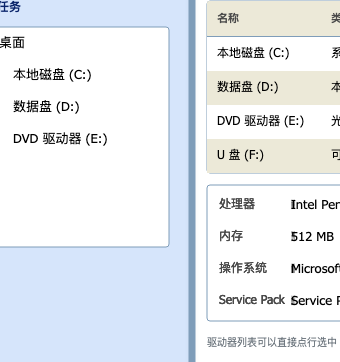
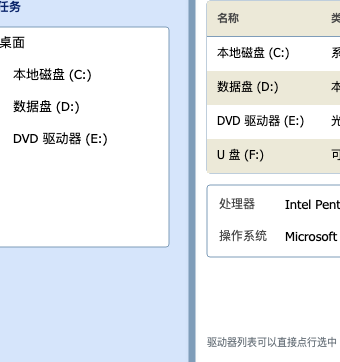
fix: 描述列表/时间线重排时不再叠加 + 长值自动省略号
用户反馈的「文字重影/重复」在描述列表里还有一层原因：__render() 只 addChild、
从不清理旧子节点 —— 每次重排（setItems、宽度变化触发的 __afterStateMerge）都会把
新内容叠在旧内容上（XP「我的电脑 · 系统信息」两列布局糊成一团的元凶）。

- ICEDescriptions / ICETimeline：__render() 开头 removeChildren 清空
- ICEDescriptions：标签/值超宽时按 estimateTextWidth 截断加省略号（原先长值直接压到相邻列）
- 测试：新增 tests/ICERenderCleanup.test.ts（重复 setItems / 改宽度重排不叠加）+
  tests/ICEDescriptions.overflow.test.ts（值/标签超宽省略、放得下不省略、宽度变化重新省略）
- XP 示例：系统信息恢复两列（XP 风格），长值自动省略
- 另外确认：「程序化移动窗口后画图内容错位」无法复现（应是之前 splitter/描述列表
  bug 的连带现象），本轮补测窗口移动 + 缩放后的内容几何均正确

验证：单测 516 → 523；verify（tsc + build + docs）通过；四套 QA 全绿
（qa:xp 20 / admin 44 / gallery 32 / workbench 15）；重出 XP 截图

diff --git a/src/components/ICEDescriptions.ts b/src/components/ICEDescriptions.ts
@@ -1,6 +1,7 @@
 import { ICELabel } from './ICELabel';
 import { ICEWidget } from '../core/ICEWidget';
 import { iceUIManager } from '../core/ICEManager';
+import { truncateTextLines } from './ICETypography';
 
 /**
  * 描述列表（业界组件库 Descriptions）：成对的「标签 / 值」，支持单列与多列。
@@ -82,6 +83,8 @@ export class ICEDescriptions extends ICEWidget {
 
   private __render(): void {
     const theme = iceUIManager.getTheme();
+    // 重排前先清空：不然每次重排都会把新格子叠在旧格子上（表现为文字重影/重复）
+    this.removeChildren([...this.childNodes]);
     const width = Number(this.state.width) || 320;
     const columnWidth = width / this.column;
     this.rowNodes = [];
@@ -90,14 +93,30 @@ export class ICEDescriptions extends ICEWidget {
       const line = Math.floor(index / this.column);
       const left = row * columnWidth + 12;
       const top = 4 + line * this.itemHeight;
+      const cellWidth = columnWidth - 24;
+      const labelWidth = Math.max(0, this.labelWidth - 6);
+      // 值列再留 4px，避免文字紧贴下一列的标签
+      const valueWidth = Math.max(0, cellWidth - this.labelWidth - 4);
       const cell = new ICEWidget({
         left,
         top,
-        width: columnWidth - 24,
+        width: cellWidth,
         height: this.itemHeight,
         fill: false,
         stroke: false,
       });
+      // 超宽就截断加省略号：画布文本不会自动裁剪，长值会直接压到相邻列上
+      // （CPU 型号、操作系统版本这类值在窄列里很常见）
+      const labelText = truncateTextLines(item.label, {
+        maxWidth: labelWidth,
+        fontSize: 12,
+        maxLines: 1,
+      })[0];
+      const valueText = truncateTextLines(String(item.value ?? ''), {
+        maxWidth: valueWidth,
+        fontSize: 13,
+        maxLines: 1,
+      })[0];
       cell.addChild(
         new ICELabel({
           interactive: false,
@@ -106,7 +125,7 @@ export class ICEDescriptions extends ICEWidget {
           width: this.labelWidth,
           height: this.itemHeight,
           verticalAlign: 'middle',
-          text: item.label,
+          text: labelText,
           style: { fontSize: 12, fillStyle: theme.colors.textSecondary },
         }),
         false,
@@ -116,10 +135,10 @@ export class ICEDescriptions extends ICEWidget {
           interactive: false,
           left: this.labelWidth,
           top: 0,
-          width: Math.max(0, columnWidth - 24 - this.labelWidth),
+          width: valueWidth,
           height: this.itemHeight,
           verticalAlign: 'middle',
-          text: item.value,
+          text: valueText,
           style: { fontSize: 13, fillStyle: theme.colors.text },
         }),
         false,

diff --git a/tests/ICERenderCleanup.test.ts b/tests/ICERenderCleanup.test.ts
@@ -1,0 +1,63 @@
+/**
+ * 「重排前先清空」回归。
+ *
+ * 背景：`ICEDescriptions.__render()` / `ICETimeline.__render()` 原来只 `addChild` 不清理，
+ * 于是每次重排（setItems、宽度变化触发的 __afterStateMerge）都会把新内容**叠在旧内容上** ——
+ * 表现为文字重影/重复（XP 桌面「我的电脑 · 系统信息」两列布局糊成一团就是这么来的）。
+ */
+import { ICEDescriptions } from '../src/components/ICEDescriptions';
+import { ICETimeline } from '../src/components/ICETimeline';
+
+describe('重排前先清空', () => {
+  it('ICEDescriptions：重复 setItems 不会叠加格子', () => {
+    const list = new ICEDescriptions({
+      width: 300,
+      column: 2,
+      items: [
+        { label: 'A', value: '1' },
+        { label: 'B', value: '2' },
+      ],
+    });
+    expect(list.getRowNodes()).toHaveLength(2);
+    expect(list.childNodes).toHaveLength(2);
+    list.setItems([
+      { label: 'A', value: '1' },
+      { label: 'B', value: '2' },
+    ]);
+    expect(list.getRowNodes()).toHaveLength(2);
+    expect(list.childNodes).toHaveLength(2);
+  });
+
+  it('ICEDescriptions：改宽度重排后子节点数量不变（不会留下旧几何）', () => {
+    const list = new ICEDescriptions({
+      width: 600,
+      column: 2,
+      items: [
+        { label: 'A', value: '1' },
+        { label: 'B', value: '2' },
+        { label: 'C', value: '3' },
+      ],
+    });
+    const before = list.childNodes.length;
+    list.setState({ width: 300 });
+    expect(list.childNodes).toHaveLength(before);
+    // 第二列 = 列宽 + 12（左侧内边距）
+    expect(list.getRowNodes()[1].state.left).toBe(Math.round(300 / 2) + 12);
+  });
+
+  it('ICETimeline：重复 setItems 不会叠加行', () => {
+    const timeline = new ICETimeline({
+      width: 300,
+      items: [
+        { title: 'a', time: '1' },
+        { title: 'b', time: '2' },
+      ],
+    });
+    const before = timeline.childNodes.length;
+    timeline.setItems([
+      { title: 'a', time: '1' },
+      { title: 'b', time: '2' },
+    ]);
+    expect(timeline.childNodes).toHaveLength(before);
+  });
+});

diff --git a/tests/ICEDescriptions.overflow.test.ts b/tests/ICEDescriptions.overflow.test.ts
@@ -1,0 +1,50 @@
+/**
+ * 描述列表的长值处理（回归）。
+ *
+ * 背景：画布文本不会自动裁剪 —— 多列布局里「Intel Pentium 4 2.4GHz」这类长值会直接
+ * 压到相邻列的标签上（XP 桌面的「我的电脑 · 系统信息」就是这么糊掉的）。
+ * 现在标签/值超宽都会截断并补省略号。
+ */
+import { ICEDescriptions } from '../src/components/ICEDescriptions';
+import { estimateTextWidth } from '../src/util/ICEStyle';
+
+const items = [
+  { label: '处理器', value: 'Intel Pentium 4 2.4GHz' },
+  { label: '内存', value: '512 MB' },
+];
+
+describe('ICEDescriptions 长值省略', () => {
+  it('值超宽：截断 + 省略号，宽度不超过值列', () => {
+    const list = new ICEDescriptions({ width: 300, column: 2, labelWidth: 60, items });
+    const row = list.getRowNodes()[0];
+    const valueLabel = row.childNodes[1] as any;
+    const text = valueLabel.getText();
+    expect(text.endsWith('…')).toBe(true);
+    expect(estimateTextWidth(text, 13)).toBeLessThanOrEqual(Number(valueLabel.state.width) + 1);
+  });
+
+  it('放得下就原样显示，不加省略号', () => {
+    const list = new ICEDescriptions({ width: 700, column: 1, labelWidth: 60, items });
+    const row = list.getRowNodes()[0];
+    expect((row.childNodes[1] as any).getText()).toBe('Intel Pentium 4 2.4GHz');
+  });
+
+  it('标签超宽也省略', () => {
+    const list = new ICEDescriptions({
+      width: 300,
+      column: 2,
+      labelWidth: 60,
+      items: [{ label: '超级超级超级超级长的标签名', value: 'x' }],
+    });
+    const row = list.getRowNodes()[0];
+    expect((row.childNodes[0] as any).getText().endsWith('…')).toBe(true);
+  });
+
+  it('宽度变化后重新省略（配合 __afterStateMerge）', () => {
+    const list = new ICEDescriptions({ width: 700, column: 1, labelWidth: 60, items });
+    expect((list.getRowNodes()[0].childNodes[1] as any).getText()).toBe('Intel Pentium 4 2.4GHz');
+    list.setState({ width: 220 });
+    const text = (list.getRowNodes()[0].childNodes[1] as any).getText();
+    expect(text.endsWith('…')).toBe(true);
+  });
+});

diff --git a/examples/windows-xp.html b/examples/windows-xp.html
@@ -594,8 +594,9 @@
           left: 0,
           top: 0,
           width: 100,
-          // 单列：面板只有 ~450px，两列时「Intel Pentium 4 2.4GHz」这类长值会溢出到隔壁
-          column: 1,
+          // 两列（XP 风格）：长值现在会被自动截断成省略号（ICEDescriptions 的超宽省略）
+          column: 2,
+          labelWidth: 66,
           items: [
             { label: '处理器', value: 'Intel Pentium 4 2.4GHz' },
             { label: '内存', value: '512 MB' },

diff --git a/src/components/ICETimeline.ts b/src/components/ICETimeline.ts
@@ -73,6 +73,8 @@ export class ICETimeline extends ICEWidget {
 
   private __render(): void {
     const theme = iceUIManager.getTheme();
+    // 重排前先清空（否则 setItems / 宽度变化会把新行叠在旧行上）
+    this.removeChildren([...this.childNodes]);
     const width = Number(this.state.width) || 320;
     const lineX = 6;
     this.items.forEach((item, index) => {

diff --git a/ROADMAP.md b/ROADMAP.md
@@ -11,7 +11,7 @@
 > `focusRing` 聚焦色）；③ `ICETag`/`ICEBadge` 默认改成 Bootstrap 实底 `.text-bg-*`（`variant:'soft'` 保留浅底风格）。
 > 细节见 README 的 Naming / Theme / Colour variants 三节。
 
-## 现状（76 个组件源文件 / 90 个导出类 / 516 条单测 / 111 项浏览器断言）
+## 现状（76 个组件源文件 / 90 个导出类 / 523 条单测 / 111 项浏览器断言）
 
 按分组清点（完整清单与参数见 [`docs/components.md`](./docs/components.md)）：
 
@@ -61,6 +61,8 @@
 > 顺带修四类 bug：引擎多行文本行距（中文叠字）、`ICESplitter` 构造期夹取丢掉请求尺寸、
 > 显示类组件宽度变化不重排（ICEDescriptions/ICETimeline/ICEList/ICECollapse）、
 > `ICEIconTile`/`ICEWindow` 支持自绘图标节点（`iconNode`）。
+> 收尾：`ICEDescriptions`/`ICETimeline` 的 `__render()` 现在先清空再重排（否则每次重排都叠加、
+> 出现文字重影）；`ICEDescriptions` 的标签/值超宽自动省略号。
 >
 > 示例：`gallery.html`（组件总览）、`admin.html`（6 页后台）、`workbench.html`（客服工单工作台）、
 > `windows-xp.html`（全屏 XP 桌面）、`custom-component.html`（自定义组件）——见[示例与场景](./docs/guides/examples.md)。

diff --git a/docs/guides/examples.md b/docs/guides/examples.md
@@ -124,6 +124,9 @@ npx serve .
 > 同一类问题这一轮又修了三处：`ICESplitter` 构造时把调用方要的 `size` 夹取后丢掉（容器
 > 后拿到真实尺寸无法恢复）、`ICEDescriptions` / `ICETimeline` / `ICEList` / `ICECollapse`
 > 宽度变化不重排（值列宽度算成 0，文字直接消失）、引擎多行文本行距用了字形墨迹高（中文叠字）。
+> 收尾时又抓到一条更隐蔽的：`ICEDescriptions` / `ICETimeline` 的 `__render()` **只 addChild
+> 不清理**，每次重排都会把新内容叠在旧内容上（文字重影/重复）；另外描述列表的标签/值超宽
+> 现在会自动截断成省略号，不再压到相邻列上。
 
 ### 扫雷：一个「游戏级」的例子
 
